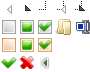
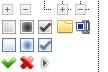
fixed jstree

diff --git a/Resources/public/lib/jstree/themes/default/style.css b/Resources/public/lib/jstree/themes/default/style.css
@@ -14,7 +14,10 @@
 
 .jstree-default .jstree-hovered { background:#e7f4f9; border:1px solid #d8f0fa; padding:0 2px 0 1px; }
 .jstree-default .jstree-clicked { background:#beebff; border:1px solid #99defd; padding:0 2px 0 1px; }
-.jstree-default a .jstree-icon { background-position:-56px -19px; }
+.jstree-default a .jstree-icon {
+    background-position: -56px -19px;
+    width: 18px;
+}
 .jstree-default a.jstree-loading .jstree-icon { background:url("throbber.gif") center center no-repeat !important; }
 
 .jstree-default.jstree-focused { }

diff --git a/Resources/public/css/less/oro.less b/Resources/public/css/less/oro.less
@@ -2069,3 +2069,6 @@ div.uploader input {
   text-decoration: none;
   color: #fff;
 }
+.oro-tree .form-actions button{
+  float: right;
+}
